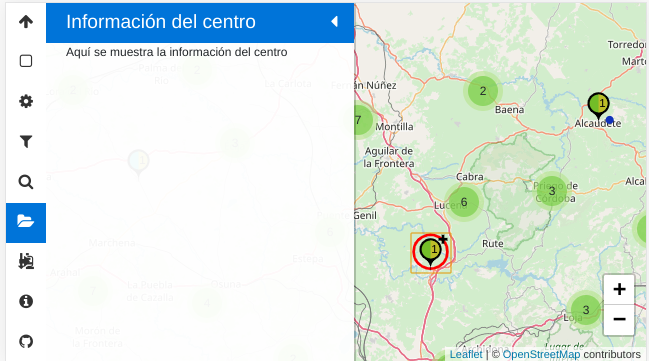
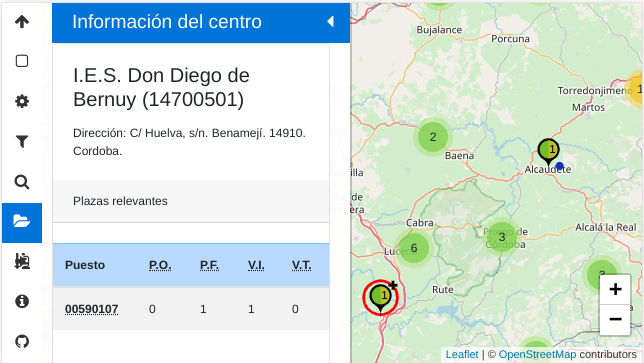
Actualiza la documentación de usuario

diff --git a/docs/html/searchindex.js b/docs/html/searchindex.js
@@ -1,1 +1,1 @@
-Search.setIndex({docnames:["01.intro/index","02.dev/01.map","02.dev/02.adjofer","02.dev/index","index"],envversion:{"sphinx.domains.c":1,"sphinx.domains.changeset":1,"sphinx.domains.cpp":1,"sphinx.domains.javascript":1,"sphinx.domains.math":2,"sphinx.domains.python":1,"sphinx.domains.rst":1,"sphinx.domains.std":1,"sphinx.ext.todo":1,sphinx:55},filenames:["01.intro/index.rst","02.dev/01.map.rst","02.dev/02.adjofer.rst","02.dev/index.rst","index.rst"],objects:{"":{Centro:[2,0,1,""],CorrSys:[1,1,1,""],Correctable:[1,1,1,""],FilterSys:[1,1,1,""],Icon:[1,1,1,""],Marker:[1,1,1,""],agregarCentros:[2,3,1,""],calcularOrigen:[2,3,1,""],cluster:[2,0,1,""],contador:[2,0,1,""],direccion:[2,0,1,""],general:[2,0,1,""],geoCodificar:[2,3,1,""],getIcon:[2,3,1,""],getIsocronas:[2,3,1,""],getStatus:[2,3,1,""],isocronas:[2,0,1,""],mapAdjOfer:[2,2,1,""],origen:[2,0,1,""],ruta:[2,0,1,""],seleccionado:[2,0,1,""],setIcon:[2,3,1,""],setIsocronas:[2,3,1,""],setOrigen:[2,3,1,""],setRuta:[2,3,1,""],setStatus:[2,3,1,""],status:[2,0,1,""]},"L.utils":{Converter:[1,1,1,""],createMutableIconClass:[1,2,1,""],grayFilter:[1,2,1,""],load:[1,2,1,""],noFilteredIconCluster:[1,2,1,""]},"L.utils.Converter":{define:[1,2,1,""],defined:[1,0,1,""],disable:[1,2,1,""],enable:[1,2,1,""],enabled:[1,0,1,""],isDefined:[1,2,1,""],params:[1,0,1,""],run:[1,2,1,""]},Correctable:{CorrValue:[1,2,1,""],total:[1,0,1,""]},Icon:{Options:[1,2,1,""],onready:[1,2,1,""],options:[1,0,1,""],ready:[1,0,1,""]},Marker:{Options:[1,2,1,""],changeData:[1,2,1,""],correct:[1,2,1,""],filter:[1,2,1,""],getCorrectStatus:[1,2,1,""],getData:[1,2,1,""],getFilterStatus:[1,2,1,""],hasFilter:[1,2,1,""],invoke:[1,2,1,""],options:[1,0,1,""],refresh:[1,2,1,""],register:[1,2,1,""],registerF:[1,2,1,""],reset:[1,2,1,""],store:[1,0,1,""],uncorrect:[1,2,1,""],unfilter:[1,2,1,""]}},objnames:{"0":["js","attribute","JavaScript atributo"],"1":["js","class","JavaScript clase"],"2":["js","function","JavaScript funci\u00f3n"],"3":["js","method","JavaScript m\u00e9todo"]},objtypes:{"0":"js:attribute","1":"js:class","2":"js:function","3":"js:method"},terms:{"100px":1,"10px":1,"200px":1,"20px":1,"23gmsmr168":2,"23gsasi820":2,"23gsda859":2,"23gsdam517":2,"2px":1,"3px":1,"4px":1,"76a6fc":1,"7be":1,"7n4qkrdh":[1,2],"9jxkrfclaxxqb":[1,2],"Qu\u00e9":4,"\u00e9sta":1,"\u00e9ste":[0,1],"\u00e9stos":[0,1],"a\u00f1ad":[0,1,2],"a\u00f1o":[0,2],"a\u00f1os":2,"acompa\u00f1":[0,1],"biling\u00fc":[0,1,2],"boolean":1,"class":1,"const":[1,2],"cu\u00e1l":[0,1,2],"cu\u00e1les":[0,1],"default":2,"desempe\u00f1":[0,2],"dise\u00f1":0,"else":1,"ense\u00f1":[0,1,2],"final":1,"for":1,"function":1,"ma\u00f1an":[0,2],"new":[1,2],"null":[1,2],"peque\u00f1":[0,1],"public":0,"return":[1,2],"se\u00f1al":[0,1],"tama\u00f1":1,"this":1,"var":[1,2],Antes:2,Con:1,ESO:0,Esta:0,Estado:4,Estas:2,Este:[0,1,2],Esto:[0,1],Hay:[1,2],Las:[0,1,2],Los:[0,1,2],Muy:0,Por:[0,2],Sin:1,Son:[0,2],Soy:[0,1],Una:[0,1],a4dhdd0dgqyw6rq:[1,2],aahor:2,abder:2,abrir:1,abrirl:0,abro:0,absolut:1,absurd:1,acab:[1,2],acced:[0,1],acces:2,accion:[0,1,2],acept:2,acerc:0,actu:1,actual:[0,1,2],actualiz:[0,1],add:1,adddat:1,addlay:1,addressset:2,addto:1,adecu:1,adel:[0,1],ademas:[0,1,2],adicion:1,adicional:[1,2],adivin:0,adj:[1,2],adjcol:1,adjmin:1,adjof:[1,2],adjofert:2,adjpu:[1,2],adjref:2,adjuc:1,adjud:[0,1,3,4],adjudic:[0,2],adjudicatari:[0,2],administr:2,admit:[1,2],adof:1,adopt:1,adqu:1,adra:2,adscrit:2,adu:2,adult:2,advert:0,afect:1,afin:0,afirm:1,agreg:[1,2],agregarcentr:2,agrup:[0,1,2],ahi:1,ahor:[1,2],ahorr:1,ajax:[1,2],ajen:2,ajust:[1,4],alcanc:0,alegr:1,alej:[0,2],aleman:2,algoritm:1,algun:[0,1,2],align:1,alla:0,alli:0,almacen:[0,1,2],almeri:2,alrededor:0,alter:[1,2],altern:1,alternat:2,ambos:[0,1,2],ampli:1,amrca:1,analog:1,ancho:0,anclaj:1,andaluc:0,anid:1,anill:2,anteior:1,antend:0,anteri:2,anterior:[0,1,2],anul:1,aparec:[0,1,2],aparent:0,apart:1,aperec:0,api:[0,2,3],aplic:[0,2],apliqu:[0,1],aport:2,apoy:2,appendchild:1,appliedcorrections:1,apply:1,apra:0,aprend:0,aprob:2,apropi:[0,1,2],aprovech:1,apto:2,apunt:[1,2],aqu:[0,1],aquell:[0,1,2],aratcliff:2,arbitrari:[0,1],archiv:1,are:[0,2],argument:[1,2],argumento:2,arr:1,arranqu:4,array:[1,2],arrays:1,arrow:1,artes:2,artesanal:1,asegur:0,asegures:1,asi:[1,2],asign:[1,2],asimil:1,asincron:1,asir:1,asoci:[0,1,2],aspect:[0,1,2],ataj:1,atract:1,atrap:1,atrbut:[1,2],atribut:[1,3],attr:[1,2],attrs:1,aum:2,aument:[1,2],aun:2,aunqu:[0,1],aut:1,autochain:1,automat:[0,1,2],autostatus:2,averigu:2,ayud:[1,2],azul:1,bachillerat:[0,1,2],background:1,bae:2,baj:1,bander:1,bap:2,bar:1,barr:0,bas:[0,1,2],base64:2,basic:3,bast:[0,1],bastant:1,bct:2,bhcs:2,bien:[1,2],bil:[1,2],biling:[1,2],bilingu:2,block:1,bold:1,bolich:[1,2],bols:0,bon:0,bool:1,bord:1,boton:[0,2],box:1,brind:[0,1],bug:0,busc:1,busqued:0,cab:[0,1,2],cad:[0,1,2],caden:[1,2],caig:0,cajetin:2,calc:1,calcul:[0,1,2],calcularorig:2,callback:1,calor:2,cambi:[0,1,2],camin:0,candidat:2,cantid:1,cap:[1,2],capac:1,capaz:[1,2],captur:[0,2],caract:0,caractarist:2,caracteris:2,caracterist:[0,1,3],caracteriz:[0,1],carec:0,carg:[0,2],cargoelect:2,carrer:2,cas:[0,1,2],ccrrect:1,cdn:2,cdnjs:2,cectr:1,celebr:0,cent:[1,2],centr:[1,2],centric:0,cercan:1,cerci:0,cercior:0,cerciores:0,cerr:0,cfgm:2,cfgs:2,cgt:[0,2],chain:1,changedat:1,chuckedloading:1,chuckprogress:1,chunkprogress:2,chup:1,chupachups:[1,2],chups:1,ci590107:2,cicl:0,cienci:2,cientif:2,cierr:0,ciert:1,circul:[0,1],circunferent:2,circunst:1,ciud:0,clar:1,clas:[1,2],classnam:1,clav:[1,2],clearlayers:[1,2],click:[0,1,2],client:0,cloudflar:2,clust:[1,2],clusters:1,cod:2,codif:2,codific:2,codig:[1,2],coincid:[0,1],col:2,colect:[0,1,2],coloc:[0,1],color:[0,1],colore:0,com:[0,1,2],comentari:1,comision:2,comp:1,compar:1,compart:0,compat:1,compens:0,compensatari:2,compensatori:[0,1,2],complej:1,complet:1,compong:0,comport:[0,1,2],comprueb:1,compuest:1,comun:[0,1],concept:3,concili:2,concret:[1,2],concurs:[0,2],concursill:1,condicion:0,conect:1,configur:2,conjunt:1,conoc:[0,1,2],conrrect:2,cons:[],consecuent:[0,1,2],conserv:1,consid:1,consig:0,consist:[0,1],consol:[1,2],conson:1,constanci:1,constitu:[1,2],constru:[1,2],construccion:1,constructor:1,consult:[0,1,2,4],contador:[0,2],conten:[0,1],contendr:2,contenedor:1,conteng:1,content:1,context:1,contextmenu:2,contextual:[0,2],contien:[1,2],contigu:2,continu:0,contrari:2,contribu:1,control:2,contru:2,convendr:[1,2],convenient:[0,2],conversion:1,conversor:1,convert:1,coorden:2,coordin:1,coordinat:[1,2],copi:0,corr:[0,1],correccion:[0,3],correccon:1,correct:[1,2],correctamet:0,correg:[0,1,2],correspond:2,correspondient:[0,1],corrient:1,corrig:1,corrsys:1,corrvalu:1,cre:[0,1,2],creacion:[3,4],crearicon:1,crearmarc:1,createelement:1,createmutableiconclass:1,criteri:1,crossorigin:[1,2],css:[1,2],cuad:1,cuales:1,cualqu:[0,1],cualqui:[1,2],cuand:[0,1,2],cuant:[0,1,2],cuarent:0,cuatr:[0,1],cuent:[0,1],cuerp:0,culp:1,culpabl:2,cumpl:1,curs:2,cuy:[0,1,2],dad:1,dam:1,dar:1,dars:1,dat:[0,3],dataload:2,dataset:1,ddd:1,deb:[0,1,2],decision:1,declar:0,decodif:2,dedic:[0,1,2],deep:1,defect:[0,1,2],defin:[0,1,2],definicion:2,definit:0,dej:[0,1],delet:1,dem:[1,2],dentr:[0,1,2],depend:[0,1,2],dependent:2,derech:[0,2],deriv:[1,2],des:1,desabl:2,desagreg:[0,2],desaparec:[0,1,2],desapl:[1,2],desaplic:1,desarroll:[0,1,2,4],descarg:[1,2],descont:1,describ:[1,2],descrit:0,descubr:1,desd:[1,2],dese:[1,2],deseabl:2,desech:1,deseleccion:2,desencaden:[1,2],desgl:1,desgraci:1,deshabilat:0,deshabilit:[0,1],deshac:[0,2],desmarqu:0,despend:2,desplaz:2,despleg:0,destin:[0,1,2],detall:[0,1,2],determin:[1,2],determinads:1,devolv:[1,2],devuelv:[1,2],diari:0,dias:2,dibuj:[0,1,2],dich:2,didact:1,diferent:[0,1],dificil:[0,1,2],dificult:2,dim:1,dinam:2,diner:0,direccion:[0,2],direccion_postal_del_candidat:2,direct:[0,1,2],directori:2,disabl:1,disableclusteringatzoom:1,discut:1,disgreg:1,disp:[1,2],dispar:1,display:1,dispon:[0,1,2],dispong:0,disposit:[0,2],dist:[1,2],distanci:[0,2],distingu:1,distint:[0,1,2],div:1,divers:1,divicon:1,dobl:0,document:[1,2,4],documentfragment:1,dom:2,dond:[1,2],dorm:0,dos:[0,1,2],dra:[1,2],du590107:[1,2],dual:2,duracion:0,durant:[0,1],ebb:1,echel:0,ed590107:2,educ:[0,1,2],efect:[0,1],ejecut:1,ejempl:[0,1,2],eleg:0,element:[1,2],elimianr:0,elimin:[0,1,2],ello:[0,1],embarg:[0,1],empez:0,empotr:2,enabl:1,enc3rrjcxcpavg10icrvgsmph6qw5lwrg:[1,2],encaden:2,encarg:1,encerr:0,encierr:2,encontr:[0,2],encuentr:[0,1,2],ene:2,engorr:1,enmbarg:0,enpract:2,ens:[1,2],entend:2,enter:0,entid:[1,2],entidad:[1,4],entiend:[1,2],enton:1,entonc:[1,2],entrad:1,entrev:0,enumer:[1,2],enunci:1,envi:[0,1],envuelv:1,epigraf:[0,1,2],equivalent:1,error:1,esc:2,escal:1,escalafon:[0,2],escen:2,escenari:1,escog:[0,2],escrib:[1,2],escrit:1,escuentr:1,esp:2,espaci:0,especial:[0,2],especif:[0,1,2],especific:1,especil:0,especul:0,esper:[0,1],esquin:0,establec:[0,1,2],establecimnient:2,establezc:[1,2],estadist:0,estam:1,estan:[0,1],estand:1,esten:[0,1],estil:[0,2],estim:2,etc:[1,2],evalu:2,event:3,evident:0,evit:1,exact:[1,2],exampl:1,excepcional:0,except:[1,2],exclus:[0,1,2],exdirector:2,exig:1,exist:[0,1,2],existent:[1,2],exit:1,expect:1,explic:1,exposicion:1,expres:[1,2],expuest:[1,2],expuls:1,expus:1,ext:2,extend:[1,2],extension:[1,2],extern:0,extiend:1,extincion:2,extingu:2,extra:[1,2],facilit:[1,2],fail:1,failback:1,fall:[0,1],fals:[1,2],famili:0,familiariz:2,faq:4,fast:1,favorit:1,featur:[1,2],featurecollection:[1,2],featuregroup:1,fff:1,fiabil:0,ficher:1,fij:[0,1,2],filt:[1,2],filter:[1,2],filters:1,filtersys:1,filtr:[3,4],fin:[0,1,2],firstelementchild:1,fitl:1,flex:1,fond:1,font:1,forc:1,foreach:1,form:[0,1,2],formacion:[0,2],format:[0,1,2],frances:2,frent:2,fuent:1,fuer:[0,1,2],fuerz:1,fues:1,fullscr:2,fun:2,func:1,funcioanri:2,funcion:[0,1,2],funcionari:[0,2],fundamental:[0,1],fus:2,fusion:1,futur:[0,1,2],fuzzy:2,garantiz:0,gen:0,gener:[0,1,2],general:[1,2],geocod:2,geocodif:2,geocodific:2,geograf:[1,4],geojson:2,geometry:[1,2],get:[1,2],getautocorrect:1,getcorrectstatus:1,getdat:[1,2],getelementby:1,getfilterstatus:1,geticon:2,getisocron:2,getlayers:2,getstatus:2,github:[2,4],googl:0,goz:0,grad:2,grand:1,grayfilt:1,grayscal:1,gris:[0,1],guard:1,hab:[0,1,2],habilit:[0,1,2],habitual:[0,1],habr:[0,2],hac:[0,2],hag:[0,1],har:[0,1],hasfilt:1,hasownproperty:1,hast:[0,1],hech:[0,1,2],height:1,hem:[0,1],herramient:[0,1],hoj:2,hol:1,homonim:2,hor:0,href:[1,2],html:[1,2],htmlelement:1,http:1,https:[1,2],hub:[0,1,2],human:2,icon:[0,2],iconanchor:1,iconcreatefunction:1,iconfunctioncreat:1,iconsiz:1,iconurl:1,ide:1,identif:[1,2],identific:1,idi:2,idiom:[0,2],idiosincrasi:1,idon:0,idx:1,ied:2,igual:[0,1],ilimit:0,ilustr:1,imag:1,imagen:1,impart:2,implant:2,implement:[1,2],implemet:1,implic:[1,2],impon:0,impong:1,impractic:1,imprescind:1,impuest:0,inalter:1,inclu:[0,1,2],inclus:1,inclusion:1,incluyendol:2,incompat:0,incorpor:[0,1],incr:1,incrust:1,independient:1,index:1,indexof:1,indic:[0,1,2],indiqu:1,indirect:1,indispens:1,individual:[0,1],inferior:0,inform:[0,1,2],informat:[0,2],ingles:[0,1,2],inicial:[0,1,2],insercion:1,insert:1,insta:0,institut:0,instruccion:1,integrity:[1,2],intencion:1,intent:[1,2],inter:1,interaccion:1,interact:0,interactu:[0,2],intercom:2,interes:[0,1],interfaz:[1,2],interin:[0,1,2],interm:1,intermedi:1,intermediari:1,intern:2,internamient:1,interpret:1,inters:1,interval:0,introduc:[1,2],inutil:[0,1],inv:[1,2],invad:0,invent:1,inversor:2,invert:[1,2],invok:1,involucr:1,ira:0,iran:0,irlas:1,irrelev:0,isdefin:1,iso20:2,isochron:2,isochroneset:2,isocron:[0,2],isprimitiv:1,item:0,items:1,itinerari:0,javascript:1,jsdelivr:2,json:2,jueg:2,juli:0,just:1,justify:1,key:2,lanz:[1,2],larg:0,lat:[1,2],lateral:0,latin:0,latlng:2,lay:[1,2],layeradd:1,layergroup:1,leafext:[1,2],leaflet:2,lectur:1,left:1,lej:[0,2],lejan:[0,2],length:1,lent:2,lenz:2,let:1,letr:[0,2],libr:[1,2],libs:2,lig:1,light:2,limit:[0,1,2],limites:[1,2],limpi:0,lin:0,line:1,link:[1,2],list:[0,1],llam:1,lleg:[1,2],llev:[0,1,2],lng:[1,2],load:1,loading:2,localiz:[1,2],loes:1,log:[1,2],longitud:1,lueg:2,lug:[0,1],maciz:2,magnitud:1,main:1,malum:0,manej:1,maner:[1,2],manipul:2,mantendr:2,manual:1,map:3,mapadjof:2,mapbox:2,maps:[0,1,2],mar:2,marc:[0,2],margin:1,marism:2,mark:1,markerclust:2,markerclustergroup:1,markerselect:2,marqu:0,mas:[0,1,2],matemat:0,math:1,matutin:2,max:1,maximiz:2,maxzoom:1,mayor:[0,2],mayuscul:0,mecan:1,med:1,medi:0,mediant:[0,1,2],mejor:1,men:[0,1,2],mencion:2,menor:2,menu:[0,2],menus:2,meod:2,mer:0,mes:2,meth:1,method:1,metod:[1,3],microinformat:2,mientr:[0,1],min:[1,2],minim:1,minut:[0,2],mism:[0,1,2],mobil:2,mod:[0,1,2],modal:2,moder:0,modif:[1,2],modific:[0,1],modifiqu:1,modul:2,moment:1,monitor:0,mostr:[0,1,2],motiv:[0,1],movil:0,much:[1,2],muestr:[0,1],multiplataform:2,mun:2,mutabil:1,mutabl:[1,2],nad:[0,2],nam:1,naranj:0,naveg:[0,1],neces:1,necesari:[1,2],necesit:[1,2],negat:2,net:2,newoldval:2,newopts:1,newval:2,ningun:[0,1,2],nivel:[0,1],nmumadj:1,nofilterediconclust:1,nom:2,nombr:[0,1,2],non:1,norg:2,normal:[0,1,2],nosotr:1,not:[0,1,2],notaciion:1,notacion:1,now:1,npm:2,npmcdn:2,nue:2,nuestr:[0,1],nuev:[0,1,2],nul:0,numadj:1,numb:1,numer:[0,1,2],nunc:1,nza:2,obj:1,object:1,objet:[0,1,3],obligatori:1,obra:1,obrand:1,obre:1,observ:1,observes:1,obsolut:1,obstanmt:1,obstant:1,obten:[0,1,2],obtencion:[0,1,2],obtendr:1,obtien:[0,1,2],obtuv:[1,2],obvi:[1,2],ocult:[0,1],ocup:[0,2],ocurr:[0,1],ofens:2,ofert:[0,1,3,4],ofertafp:2,ofertasec:2,off:1,ofrec:2,oldval:2,omit:1,oneachfeatur:1,onready:1,opcion:[0,1,2],openrouteservic:[0,2],openstreetmap:1,oper:[1,2],oportun:0,option:1,options:[1,2],opts:[1,2],orden:[0,1,2],org:[1,2],organ:2,orig:[0,1,2],original:1,originset:2,ors:2,padding:1,pagin:[1,2],panel:0,pantall:0,par:[0,1,2],param:1,paramerr:2,parametr:[1,2],params:1,parcial:[1,2],parec:1,parezc:0,part:[0,1,2],particip:0,particp:[],particul:[1,2],particular:[1,2],partip:0,pas:[0,1,2],pasarsel:2,path:2,paut:1,ped:0,pens:2,per:[0,1,2],perfil:0,permanec:1,permis:0,permit:[0,1,2],personal:1,pertenec:[0,1,2],pertenezc:1,perviv:0,pes:1,pet:2,peticion:[0,1,2],pie:[0,1,2],pill:0,pinch:[0,2],pist:0,pla:2,plan:[0,2],plant:1,plantill:[1,2],plasmacion:1,plastic:2,plaz:[0,2],plugin:2,plugins:[1,2],png:1,poc:1,pod:[0,1],podr:[0,1,2],podran:1,podri:1,point:[1,2],pointtolay:1,pon:[0,1],popup:2,porqu:[0,1,2],portapapel:0,posibil:0,posibilit:[1,2],posibl:[0,1,2],posicion:0,posit:2,position:1,pospon:1,post:1,postal:[0,2],posteri:2,posterior:1,postul:0,practic:[0,1,2],precis:1,predefin:2,predetermin:2,predomin:0,preexistent:1,prefer:0,preferent:[1,2],prelacion:[0,2],pres:2,prescind:[0,2],presencial:2,present:[0,1,2],presupondr:2,pretend:[1,2],previ:[0,2,3],prim:[0,1,2],primer:[0,1,2],primit:1,principal:0,principi:[0,1,2],priorid:[0,2],pro:[0,2],prob:0,probabl:[0,1],proced:[0,2],proces:1,procur:0,produc:2,produjeron:0,profesional:[0,2],profesor:0,program:[0,1,2],progres:2,progress:1,progressb:1,pronunci:0,properti:[1,2],propi:[0,1,2],propied:[1,2],propiedad:1,proporcion:[1,2],proposit:1,prove:1,provisional:2,provoc:[1,2],proxim:[0,1],pubpdr0798ozvttbp4a8ix:[1,2],pud:[0,2],pue:[1,2],pued:[0,1,2],pueespec:2,pues:2,puest:[0,1,2],puls:[0,1],pulsacion:0,punt:[0,1,2],puntualiz:1,qued:[0,1,2],quer:1,query:2,queryselector:1,quier:[0,1,2],quis:1,quizas:1,qvftwzfqvtrni0zyctsznlkswostndoroefr1enyq5mvl4tmkb3s:[1,2],qye:1,radius:1,rap:0,raton:2,razon:[0,1],ready:1,real:1,realid:[1,2],realiz:[1,2],recalcul:1,rechaz:0,recib:[1,2],recog:[0,2],reconoc:1,record:0,recorr:1,recr:1,recuerd:[0,2],recuper:0,recurr:[1,2],red:2,redefin:1,redibuj:[1,2],ref:[],refer:[1,2],referent:[0,2],refier:0,reflej:[0,1],refresc:1,refresh:1,refresqu:1,regist:1,registerf:1,registr:1,regl:1,reingres:2,rel:[1,2],relacioand:0,relacion:1,relat:2,relativ:1,relev:[0,1,2],rellen:0,remocion:[0,1,2],remot:2,removeproperty:1,rendimient:1,rentabil:0,repetid:1,replieg:0,repositori:4,represent:[0,1,2],reproduc:[0,1],requier:[1,2],requisit:[1,3],reset:[1,2],resolu:0,resolv:[1,2],respect:[0,1,2],respond:[0,2],respuest:1,rest:[0,1,2],restant:2,restitu:2,restriccion:0,restrict:1,restring:0,result:[0,1,2],resum:1,retorn:2,revel:1,revert:1,revis:2,rgba:1,riesg:0,rod:[0,2],roj:[0,2],round:1,routeset:2,run:1,rut:[0,2],rutapopup:2,sab:[0,1],sal:0,saludpropi:2,salv:0,salved:1,script:[1,2],scripts:[1,2],search:2,seccion:0,secundari:[0,2],segu:1,seguir:2,segun:[1,2],segund:[0,1,2],seleccion:[2,4],seleccionad:[],semej:0,semi:2,semipresencial:2,sencill:[1,2],sent:[0,1,2],septiembr:[0,2],ser:[1,2],seran:1,seri:[1,2],serv:1,servici:[0,2],servidor:[],sesion:0,setfilt:[],setfilterstyl:1,seticon:2,setisocron:2,setorig:2,setrut:2,setstatus:2,setstyl:1,setview:1,sevill:0,sha512:[1,2],shift:0,showcoverageonhov:1,sid:[1,2],siembr:2,siempr:[0,2],siend:2,sig:[1,2],signif:[0,1,2],signific:[0,1,2],siguient:[0,1,2],simetr:1,simpl:1,simplement:[0,1],simplific:1,sino:[0,1],sintaxis:1,sirv:1,sistem:[1,2],situ:2,situacion:1,sizing:1,sjawzfwakuyequyto7:[1,2],smr:1,sobr:[0,1,2],sobreentiend:[1,2],sobreescrib:[1,2],sobremes:0,social:2,sol:[0,1,2],solicitud:2,solucion:1,som:0,soport:[1,2],sp590107:2,span:1,spid:2,spiderfyonmaxzoom:1,src:[1,2],start:1,status:2,statuschang:2,step:1,stor:[1,2],string:1,style:1,styles:1,stylesheet:[1,2],subsan:0,success:1,suert:[],sufr:1,sum:[1,2],suministr:[1,2],sumunistr:2,superfici:0,superior:0,superpuest:0,supervivient:0,supon:[1,2],supong:1,suprim:[1,2],supuest:[0,1],supus:1,suscept:1,susodich:1,suspend:1,sustanci:0,sut:1,svg:[1,2],tach:0,tactil:0,tal:[0,1,2],tambien:[0,1,2],tampoc:1,tant:[0,1,2],tar:1,tard:[0,2],tare:1,target:1,taxat:0,tecl:0,tecnic:0,tecnolog:2,tedios:2,telefon:[0,1,2],templat:1,ten:[0,1,2],tendr:[1,2],teng:[0,1,2],terc:[1,2],tercer:[0,1],termin:2,textcontent:1,tiemp:[0,1,2],tien:[0,1,2],til:1,tilelay:1,tin:1,tip:[0,1,2],tipic:1,tipp:2,tiron:1,titl:1,tod:[0,1,2],tom:[0,1],tont:0,top:1,torn:1,total:1,tra:1,trabaj:0,traduc:1,transform:1,tras:2,trasl:[1,2],traslad:1,trat:[0,1],tratamient:1,traves:[0,1,2],tres:[1,2],trivial:0,troz:1,tru:[1,2],tur:2,turf:2,turn:[0,2],type:[1,2],ubi:2,ubic:[0,2],ultim:[0,1,2],unas:[0,1,2],unclusterzoom:2,uncorrect:[1,2],undefin:1,unfilt:[1,2],unfilter:[1,2],unic:[0,1,2],unpkg:[1,2],updat:1,url:[0,1,2],usa:[1,2],usad:1,usam:1,usan:[0,1],usand:[0,1,2],usar:[0,1,2],usarl:2,usars:[1,2],use:1,usem:1,uso:[2,3,4],usuari:[0,1,2],util:[0,2],utilic:0,utiliz:[1,2],utils:1,vac:1,vacant:[0,1,2],vaci:[0,1],val:1,valor:[0,1,2],valu:1,van:1,vari:1,variabl:[1,2],variacion:[1,2],variant:3,vay:1,vea:1,veas:[0,1,2],vec:1,vem:1,ven:1,ventaj:1,ver:[0,1],veran:0,vers:0,version:[1,2],vertical:0,vespertin:2,vez:[0,1,2],viaj:[0,2],violace:0,virtual:2,visit:0,vist:[0,1],vistaz:0,visual:[0,1,2],volunt:1,volv:[0,1,2],vuejs:1,vuelv:1,web:2,weight:1,width:1,xhr:1,xml:1,xmlhttprequest:1,xxxxx:2,zoom:[0,1,2]},titles:["1. \u00bfQu\u00e9 es Lobat\u00f3n?","3.1. Creaci\u00f3n de mapas","3.2. Mapa de oferta y adjudicaciones","3. Documentaci\u00f3n de desarrollo","Lobat\u00f3n: mapa de centros educativos andaluces"],titleterms:{"Qu\u00e9":0,Estado:0,Otras:1,Por:1,acces:1,adjud:2,ajust:0,andaluc:4,api:1,aplic:1,arranqu:0,atribut:2,barr:1,basic:1,caracterist:2,carg:1,centr:[0,4],comprob:1,concept:1,correccion:[1,2],creacion:[1,2],dat:[1,2],definicion:1,desarroll:3,document:3,dond:4,educ:4,encaden:1,entidad:0,estil:1,event:[1,2],faq:0,filtr:[0,1,2],geograf:0,geojson:1,hac:1,icon:1,indic:[],ingredient:1,leaflet:1,lobaton:[0,4],map:[0,1,2,4],marc:1,markerclust:1,metod:2,objet:2,ofert:2,preliminar:1,previ:1,progres:1,requer:1,requisit:2,reversion:1,seleccion:0,tabl:[],uso:[0,1],util:1,variant:1}})
+Search.setIndex({docnames:["01.intro/index","02.dev/01.map","02.dev/02.adjofer","02.dev/index","index"],envversion:{"sphinx.domains.c":1,"sphinx.domains.changeset":1,"sphinx.domains.cpp":1,"sphinx.domains.javascript":1,"sphinx.domains.math":2,"sphinx.domains.python":1,"sphinx.domains.rst":1,"sphinx.domains.std":1,"sphinx.ext.todo":1,sphinx:55},filenames:["01.intro/index.rst","02.dev/01.map.rst","02.dev/02.adjofer.rst","02.dev/index.rst","index.rst"],objects:{"":{Centro:[2,0,1,""],CorrSys:[1,1,1,""],Correctable:[1,1,1,""],FilterSys:[1,1,1,""],Icon:[1,1,1,""],Marker:[1,1,1,""],agregarCentros:[2,3,1,""],calcularOrigen:[2,3,1,""],cluster:[2,0,1,""],contador:[2,0,1,""],direccion:[2,0,1,""],general:[2,0,1,""],geoCodificar:[2,3,1,""],getIcon:[2,3,1,""],getIsocronas:[2,3,1,""],getStatus:[2,3,1,""],isocronas:[2,0,1,""],mapAdjOfer:[2,2,1,""],origen:[2,0,1,""],ruta:[2,0,1,""],seleccionado:[2,0,1,""],setIcon:[2,3,1,""],setIsocronas:[2,3,1,""],setOrigen:[2,3,1,""],setRuta:[2,3,1,""],setStatus:[2,3,1,""],status:[2,0,1,""]},"L.utils":{Converter:[1,1,1,""],createMutableIconClass:[1,2,1,""],grayFilter:[1,2,1,""],load:[1,2,1,""],noFilteredIconCluster:[1,2,1,""]},"L.utils.Converter":{define:[1,2,1,""],defined:[1,0,1,""],disable:[1,2,1,""],enable:[1,2,1,""],enabled:[1,0,1,""],isDefined:[1,2,1,""],params:[1,0,1,""],run:[1,2,1,""]},Correctable:{CorrValue:[1,2,1,""],total:[1,0,1,""]},Icon:{Options:[1,2,1,""],onready:[1,2,1,""],options:[1,0,1,""],ready:[1,0,1,""]},Marker:{Options:[1,2,1,""],changeData:[1,2,1,""],correct:[1,2,1,""],filter:[1,2,1,""],getCorrectStatus:[1,2,1,""],getData:[1,2,1,""],getFilterStatus:[1,2,1,""],hasFilter:[1,2,1,""],invoke:[1,2,1,""],options:[1,0,1,""],refresh:[1,2,1,""],register:[1,2,1,""],registerF:[1,2,1,""],reset:[1,2,1,""],store:[1,0,1,""],uncorrect:[1,2,1,""],unfilter:[1,2,1,""]}},objnames:{"0":["js","attribute","JavaScript atributo"],"1":["js","class","JavaScript clase"],"2":["js","function","JavaScript funci\u00f3n"],"3":["js","method","JavaScript m\u00e9todo"]},objtypes:{"0":"js:attribute","1":"js:class","2":"js:function","3":"js:method"},terms:{"100px":1,"10px":1,"200px":1,"20px":1,"23gmsmr168":2,"23gsasi820":2,"23gsda859":2,"23gsdam517":2,"2px":1,"3px":1,"4px":1,"76a6fc":1,"7be":1,"7n4qkrdh":[1,2],"9jxkrfclaxxqb":[1,2],"Qu\u00e9":4,"\u00e9sta":1,"\u00e9ste":[0,1],"\u00e9stos":[0,1],"a\u00f1ad":[0,1,2],"a\u00f1o":[0,2],"a\u00f1os":2,"acompa\u00f1":[0,1],"biling\u00fc":[0,1,2],"boolean":1,"class":1,"const":[1,2],"cu\u00e1l":[0,1,2],"cu\u00e1les":[0,1],"default":2,"desempe\u00f1":[0,2],"dise\u00f1":0,"else":1,"ense\u00f1":[0,1,2],"final":1,"for":1,"function":1,"ma\u00f1an":[0,2],"new":[1,2],"null":[1,2],"peque\u00f1":[0,1],"public":0,"return":[1,2],"se\u00f1al":[0,1],"tama\u00f1":1,"this":1,"var":[1,2],Antes:2,Con:1,ESO:0,Esta:0,Estado:4,Estas:2,Este:[0,1,2],Esto:[0,1],Hay:[1,2],Las:[0,1,2],Los:[0,1,2],Muy:0,Por:[0,2],Sin:1,Son:[0,2],Soy:[0,1],Una:[0,1],a4dhdd0dgqyw6rq:[1,2],aahor:2,abder:2,abrir:1,abrirl:0,abro:0,absolut:1,absurd:1,acab:[1,2],acced:[0,1],acces:2,accion:[0,1,2],acept:2,acerc:0,actu:1,actual:[0,1,2],actualiz:[0,1],add:1,adddat:1,addlay:1,addressset:2,addto:1,adecu:1,adel:[0,1],ademas:[0,1,2],adicion:1,adicional:[1,2],adivin:0,adj:[1,2],adjcol:1,adjmin:1,adjof:[1,2],adjofert:2,adjpu:[1,2],adjref:2,adjuc:1,adjud:[0,1,3,4],adjudic:[0,2],adjudicatari:[0,2],administr:2,admit:[1,2],adof:1,adopt:1,adqu:1,adra:2,adscrit:2,adu:2,adult:2,advert:0,afect:1,afin:0,afirm:1,agreg:[1,2],agregarcentr:2,agrup:[0,1,2],ahi:1,ahor:[1,2],ahorr:1,ajax:[1,2],ajen:2,ajust:[1,4],alcanc:0,alegr:1,alej:[0,2],aleman:2,algoritm:1,algun:[0,1,2],align:1,alla:0,alli:0,almacen:[0,1,2],almeri:2,alrededor:0,alter:[1,2],altern:1,alternat:2,ambos:[0,1,2],ampli:1,amrca:1,analog:1,ancho:0,anclaj:1,andaluc:0,anid:1,anill:2,anteior:1,antend:0,anteri:2,anterior:[0,1,2],anul:1,aparec:[0,1,2],aparent:0,apart:1,aperec:0,api:[0,2,3],aplic:[0,2],apliqu:[0,1],aport:2,apoy:2,appendchild:1,appliedcorrections:1,apply:1,apra:0,aprend:0,aprob:2,apropi:[0,1,2],aprovech:1,apto:2,apunt:[1,2],aqu:[0,1],aquell:[0,1,2],aratcliff:2,arbitrari:[0,1],archiv:1,are:[0,2],argument:[1,2],argumento:2,arr:1,arranqu:4,array:[1,2],arrays:1,arrow:1,artes:2,artesanal:1,asegur:0,asegures:1,asi:[1,2],asign:[1,2],asimil:1,asincron:1,asir:1,asoci:[0,1,2],aspect:[0,1,2],ataj:1,atract:1,atrap:1,atrbut:[1,2],atribut:[1,3],attr:[1,2],attrs:1,aum:2,aument:[1,2],aun:2,aunqu:[0,1],aut:1,autochain:1,automat:[0,1,2],autostatus:2,averigu:2,ayud:[1,2],azul:1,bachillerat:[0,1,2],background:1,bae:2,baj:1,bander:1,bap:2,bar:1,barr:0,bas:[0,1,2],base64:2,basic:3,bast:[0,1],bastant:1,bct:2,bhcs:2,bien:[1,2],bil:[1,2],biling:[1,2],bilingu:2,block:1,bold:1,bolich:[1,2],bols:0,bon:0,bool:1,bord:1,boton:[0,2],box:1,brind:[0,1],bug:0,busc:1,busqued:0,cab:[0,1,2],cad:[0,1,2],caden:[1,2],caig:0,cajetin:2,calc:1,calcul:[0,1,2],calcularorig:2,callback:1,calor:2,cambi:[0,1,2],camin:0,candidat:2,cantid:1,cap:[1,2],capac:1,capaz:[1,2],captur:[0,2],caract:0,caractarist:2,caracteris:2,caracterist:[0,1,3],caracteriz:[0,1],carec:0,carg:[0,2],cargoelect:2,carrer:2,cas:[0,1,2],ccrrect:1,cdn:2,cdnjs:2,cectr:1,celebr:0,cent:[1,2],centr:[1,2],centric:0,cercan:1,cerci:0,cercior:0,cerciores:0,cerr:0,cfgm:2,cfgs:2,cgt:[0,2],chain:1,changedat:1,chuckedloading:1,chuckprogress:1,chunkprogress:2,chup:1,chupachups:[1,2],chups:1,ci590107:2,cicl:0,cienci:2,cientif:2,cierr:0,ciert:1,circul:[0,1],circunferent:2,circunst:1,ciud:0,clar:1,clas:[1,2],classnam:1,clav:[1,2],clearlayers:[1,2],click:[0,1,2],client:0,cloudflar:2,clust:[1,2],clusters:1,cod:2,codif:2,codific:2,codig:[1,2],coincid:[0,1],col:2,colect:[0,1,2],coloc:[0,1],color:[0,1],colore:0,com:[0,1,2],comentari:1,comision:2,comp:1,compar:1,compart:0,compat:1,compens:0,compensatari:2,compensatori:[0,1,2],complej:1,complet:1,compong:0,comport:[0,1,2],comprueb:1,compuest:1,comun:[0,1],concept:3,concili:2,concret:[1,2],concurs:[0,2],concursill:1,condicion:0,conect:1,configur:2,conjunt:1,conoc:[0,1,2],conrrect:2,cons:[],consecuent:[0,1,2],conserv:1,consid:1,consig:0,consist:[0,1],consol:[1,2],conson:1,constanci:1,constitu:[1,2],constru:[1,2],construccion:1,constructor:1,consult:[0,1,2,4],contador:[0,2],conten:[0,1],contendr:2,contenedor:1,conteng:1,content:1,context:1,contextmenu:2,contextual:[0,2],contien:[1,2],contigu:2,continu:0,contrari:2,contribu:1,control:2,contru:2,convendr:[1,2],convenient:[0,2],conversion:1,conversor:1,convert:1,coorden:2,coordin:1,coordinat:[1,2],copi:0,corr:[0,1],correccion:[0,3],correccon:1,correct:[1,2],correctamet:0,correg:[0,1,2],correspond:2,correspondient:[0,1],corrient:1,corrig:1,corrsys:1,corrvalu:1,cre:[0,1,2],creacion:[3,4],crearicon:1,crearmarc:1,createelement:1,createmutableiconclass:1,criteri:1,crossorigin:[1,2],css:[1,2],cuad:1,cuales:1,cualqu:[0,1],cualqui:[1,2],cuand:[0,1,2],cuant:[0,1,2],cuarent:0,cuatr:[0,1],cuent:[0,1],cuerp:0,culp:1,culpabl:2,cumpl:1,curs:2,cuy:[0,1,2],dad:1,dam:1,dar:1,dars:1,dat:[0,3],dataload:2,dataset:1,ddd:1,deb:[0,1,2],decision:1,declar:0,decodif:2,dedic:[0,1,2],deep:1,defect:[0,1,2],defin:[0,1,2],definicion:2,definit:0,dej:[0,1],delet:1,dem:[1,2],dentr:[0,1,2],depend:[0,1,2],dependent:2,derech:[0,2],deriv:[1,2],des:1,desabl:2,desagreg:[0,2],desaparec:[0,1,2],desapl:[1,2],desaplic:1,desarroll:[0,1,2,4],descarg:[1,2],descont:1,describ:[1,2],descrit:0,descubr:1,desd:[1,2],dese:[1,2],deseabl:2,desech:1,deseleccion:[0,2],desencaden:[1,2],desgl:1,desgraci:1,deshabilat:0,deshabilit:[0,1],deshac:[0,2],desmarqu:0,despend:2,desplaz:2,despleg:0,destin:[0,1,2],detall:[0,1,2],determin:[1,2],determinads:1,devolv:[1,2],devuelv:[1,2],diari:0,dias:2,dibuj:[0,1,2],dich:2,didact:1,diferent:[0,1],dificil:[0,1,2],dificult:2,dim:1,dinam:2,diner:0,direccion:[0,2],direccion_postal_del_candidat:2,direct:[0,1,2],directori:2,disabl:1,disableclusteringatzoom:1,discut:1,disgreg:1,disp:[1,2],dispar:1,display:1,dispon:[0,1,2],dispong:0,disposit:[0,2],dist:[1,2],distanci:[0,2],distingu:1,distint:[0,1,2],div:1,divers:1,divicon:1,dobl:0,document:[1,2,4],documentfragment:1,dom:2,dond:[1,2],dorm:0,dos:[0,1,2],dra:[1,2],du590107:[1,2],dual:2,duracion:0,durant:[0,1],ebb:1,echel:0,ed590107:2,educ:[0,1,2],efect:[0,1],ejecut:1,ejempl:[0,1,2],eleg:0,element:[1,2],elimianr:0,elimin:[0,1,2],ello:[0,1],embarg:[0,1],empez:0,empotr:2,enabl:1,enc3rrjcxcpavg10icrvgsmph6qw5lwrg:[1,2],encaden:2,encarg:1,encerr:0,encierr:2,encontr:[0,2],encuentr:[0,1,2],ene:2,engorr:1,enmbarg:0,enpract:2,ens:[1,2],entend:2,enter:0,entid:[1,2],entidad:[1,4],entiend:[1,2],enton:1,entonc:[1,2],entrad:1,entrev:0,enumer:[1,2],enunci:1,envi:[0,1],envuelv:1,epigraf:[0,1,2],equivalent:1,error:1,esc:2,escal:1,escalafon:[0,2],escen:2,escenari:1,escog:[0,2],escrib:[1,2],escrit:1,escuentr:1,esp:2,espaci:0,especial:[0,2],especif:[0,1,2],especific:1,especil:0,especul:0,esper:[0,1],esquin:0,establec:[0,1,2],establecimnient:2,establezc:[1,2],estadist:0,estam:1,estan:[0,1],estand:1,esten:[0,1],estil:[0,2],estim:2,etc:[1,2],evalu:2,event:3,evident:0,evit:1,exact:[1,2],exampl:1,excepcional:0,except:[1,2],exclus:[0,1,2],exdirector:2,exig:1,exist:[0,1,2],existent:[1,2],exit:1,expect:1,explic:1,exposicion:1,expres:[1,2],expuest:[1,2],expuls:1,expus:1,ext:2,extend:[1,2],extension:[1,2],extern:0,extiend:1,extincion:2,extingu:2,extra:[1,2],facilit:[1,2],fail:1,failback:1,fall:[0,1],fals:[1,2],famili:0,familiariz:2,faq:4,fast:1,favorit:1,featur:[1,2],featurecollection:[1,2],featuregroup:1,fff:1,fiabil:0,ficher:1,fij:[0,1,2],filt:[1,2],filter:[1,2],filters:1,filtersys:1,filtr:[3,4],fin:[0,1,2],firstelementchild:1,fitl:1,flex:1,fond:1,font:1,forc:1,foreach:1,form:[0,1,2],formacion:[0,2],format:[0,1,2],frances:2,frent:2,fuent:1,fuer:[0,1,2],fuerz:1,fues:1,fullscr:2,fun:2,func:1,funcioanri:2,funcion:[0,1,2],funcionari:[0,2],fundamental:[0,1],fus:2,fusion:1,futur:[0,1,2],fuzzy:2,garantiz:0,gen:0,gener:[0,1,2],general:[1,2],geocod:2,geocodif:2,geocodific:2,geograf:[1,4],geojson:2,geometry:[1,2],get:[1,2],getautocorrect:1,getcorrectstatus:1,getdat:[1,2],getelementby:1,getfilterstatus:1,geticon:2,getisocron:2,getlayers:2,getstatus:2,github:[2,4],googl:0,goz:0,grad:2,grand:1,grayfilt:1,grayscal:1,gris:[0,1],guard:1,hab:[0,1,2],habilit:[0,1,2],habitual:[0,1],habr:[0,2],hac:[0,2],hag:[0,1],har:[0,1],hasfilt:1,hasownproperty:1,hast:[0,1],hech:[0,1,2],height:1,hem:[0,1],herramient:[0,1],hoj:2,hol:1,homonim:2,hor:0,href:[1,2],html:[1,2],htmlelement:1,http:1,https:[1,2],hub:[0,1,2],human:2,icon:[0,2],iconanchor:1,iconcreatefunction:1,iconfunctioncreat:1,iconsiz:1,iconurl:1,ide:1,identif:[1,2],identific:1,idi:2,idiom:[0,2],idiosincrasi:1,idon:0,idx:1,ied:2,igual:[0,1],ilimit:0,ilustr:1,imag:1,imagen:1,impart:2,implant:2,implement:[1,2],implemet:1,implic:[1,2],impon:0,impong:1,impractic:1,imprescind:1,impuest:0,inalter:1,inclu:[0,1,2],inclus:1,inclusion:1,incluyendol:2,incompat:0,incorpor:[0,1],incr:1,incrust:1,independient:1,index:1,indexof:1,indic:[0,1,2],indiqu:1,indirect:1,indispens:1,individual:[0,1],inferior:0,inform:[0,1,2],informat:[0,2],ingles:[0,1,2],inicial:[0,1,2],insercion:1,insert:1,insta:0,institut:0,instruccion:1,integrity:[1,2],intencion:1,intent:[1,2],inter:1,interaccion:1,interact:0,interactu:[0,2],intercom:2,interes:[0,1],interfaz:[1,2],interin:[0,1,2],interm:1,intermedi:1,intermediari:1,intern:2,internamient:1,interpret:1,inters:1,interval:0,introduc:[1,2],inutil:[0,1],inv:[1,2],invad:0,invent:1,inversor:2,invert:[1,2],invok:1,involucr:1,ira:0,iran:0,irlas:1,irrelev:0,isdefin:1,iso20:2,isochron:2,isochroneset:2,isocron:[0,2],isprimitiv:1,item:0,items:1,itinerari:0,javascript:1,jsdelivr:2,json:2,jueg:2,juli:0,just:1,justify:1,key:2,lanz:[1,2],larg:0,lat:[1,2],lateral:0,latin:0,latlng:2,lay:[1,2],layeradd:1,layergroup:1,leafext:[1,2],leaflet:2,lectur:1,left:1,lej:[0,2],lejan:[0,2],length:1,lent:2,lenz:2,let:1,letr:[0,2],libr:[1,2],libs:2,lig:1,light:2,limit:[0,1,2],limites:[1,2],limpi:0,lin:0,line:1,link:[1,2],list:[0,1],llam:1,lleg:[1,2],llev:[0,1,2],lng:[1,2],load:1,loading:2,localiz:[1,2],loes:1,log:[1,2],longitud:1,lueg:2,lug:[0,1],maciz:2,magnitud:1,main:1,malum:0,manej:1,maner:[1,2],manipul:2,mantendr:2,manual:1,map:3,mapadjof:2,mapbox:2,maps:[0,1,2],mar:2,marc:[0,2],margin:1,marism:2,mark:1,markerclust:2,markerclustergroup:1,markerselect:2,marqu:0,mas:[0,1,2],matemat:0,math:1,matutin:2,max:1,maximiz:2,maxzoom:1,mayor:[0,2],mayuscul:0,mecan:1,med:1,medi:0,mediant:[0,1,2],mejor:1,men:[0,1,2],mencion:2,menor:2,menu:[0,2],menus:2,meod:2,mer:0,mes:2,meth:1,method:1,metod:[1,3],microinformat:2,mientr:[0,1],min:[1,2],minim:1,minut:[0,2],mism:[0,1,2],mobil:2,mod:[0,1,2],modal:2,moder:0,modif:[1,2],modific:[0,1],modifiqu:1,modul:2,moment:1,monitor:0,mostr:[0,1,2],motiv:[0,1],movil:0,much:[1,2],muestr:[0,1],multiplataform:2,mun:2,mutabil:1,mutabl:[1,2],nad:[0,2],nam:1,naranj:0,naveg:[0,1],neces:1,necesari:[1,2],necesit:[1,2],negat:2,net:2,newoldval:2,newopts:1,newval:2,ningun:[0,1,2],nivel:[0,1],nmumadj:1,nofilterediconclust:1,nom:2,nombr:[0,1,2],non:1,norg:2,normal:[0,1,2],nosotr:1,not:[0,1,2],notaciion:1,notacion:1,now:1,npm:2,npmcdn:2,nue:2,nuestr:[0,1],nuev:[0,1,2],nul:0,numadj:1,numb:1,numer:[0,1,2],nunc:1,nza:2,obj:1,object:1,objet:[0,1,3],obligatori:1,obra:1,obrand:1,obre:1,observ:1,observes:1,obsolut:1,obstanmt:1,obstant:[0,1],obten:[0,1,2],obtencion:[0,1,2],obtendr:1,obtien:[0,1,2],obtuv:[1,2],obvi:[1,2],ocult:[0,1],ocup:[0,2],ocurr:[0,1],ofens:2,ofert:[0,1,3,4],ofertafp:2,ofertasec:2,off:1,ofrec:2,oldval:2,omit:1,oneachfeatur:1,onready:1,opcion:[0,1,2],openrouteservic:[0,2],openstreetmap:1,oper:[1,2],oportun:0,option:1,options:[1,2],opts:[1,2],orden:[0,1,2],org:[1,2],organ:2,orig:[0,1,2],original:1,originset:2,ors:2,padding:1,pagin:[1,2],panel:0,pantall:0,par:[0,1,2],param:1,paramerr:2,parametr:[1,2],params:1,parcial:[1,2],parec:1,parezc:0,part:[0,1,2],particip:0,particp:[],particul:[1,2],particular:[1,2],partip:0,pas:[0,1,2],pasarsel:2,path:2,paut:1,ped:0,pens:2,per:[0,1,2],perfil:0,permanec:1,permis:0,permit:[0,1,2],personal:1,pertenec:[0,1,2],pertenezc:1,perviv:0,pes:1,pet:2,peticion:[0,1,2],pie:[0,1,2],pill:0,pinch:[0,2],pist:0,pla:2,plan:[0,2],plant:1,plantill:[0,1,2],plasmacion:1,plastic:2,plaz:[0,2],plugin:2,plugins:[1,2],png:1,poc:1,pod:[0,1],podr:[0,1,2],podran:1,podri:1,point:[1,2],pointtolay:1,pon:[0,1],popup:2,porqu:[0,1,2],portapapel:0,posibil:0,posibilit:[1,2],posibl:[0,1,2],posicion:0,posit:2,position:1,pospon:1,post:1,postal:[0,2],posteri:2,posterior:1,postul:0,practic:[0,1,2],precis:1,predefin:2,predetermin:2,predomin:0,preexistent:1,prefer:0,preferent:[1,2],prelacion:[0,2],pres:2,prescind:[0,2],presencial:2,present:[0,1,2],presupondr:2,pretend:[1,2],previ:[0,2,3],prim:[0,1,2],primer:[0,1,2],primit:1,principal:0,principi:[0,1,2],priorid:[0,2],pro:[0,2],prob:0,probabl:[0,1],proced:[0,2],proces:1,procur:0,produc:2,produjeron:0,profesional:[0,2],profesor:0,program:[0,1,2],progres:2,progress:1,progressb:1,pronunci:0,properti:[1,2],propi:[0,1,2],propied:[1,2],propiedad:1,proporcion:[1,2],proposit:1,prove:1,provisional:2,provoc:[1,2],proxim:[0,1],pubpdr0798ozvttbp4a8ix:[1,2],pud:[0,2],pue:[1,2],pued:[0,1,2],pueespec:2,pues:2,puest:[0,1,2],puls:[0,1],pulsacion:0,punt:[0,1,2],puntualiz:1,qued:[0,1,2],quer:1,query:2,queryselector:1,quier:[0,1,2],quis:1,quizas:1,qvftwzfqvtrni0zyctsznlkswostndoroefr1enyq5mvl4tmkb3s:[1,2],qye:1,radius:1,rap:0,raton:2,razon:[0,1],ready:1,real:1,realid:[1,2],realiz:[1,2],recalcul:1,rechaz:0,recib:[1,2],recog:[0,2],reconoc:1,record:0,recorr:1,recr:1,recuerd:[0,2],recuper:0,recurr:[1,2],red:2,redefin:1,redibuj:[1,2],ref:[],refer:[1,2],referent:[0,2],refier:0,reflej:[0,1],refresc:1,refresh:1,refresqu:1,regist:1,registerf:1,registr:1,regl:1,reingres:2,rel:[1,2],relacioand:0,relacion:[0,1],relat:2,relativ:1,relev:[0,1,2],rellen:0,remocion:[0,1,2],remot:2,removeproperty:1,rendimient:1,rentabil:0,repetid:1,replieg:0,repositori:4,represent:[0,1,2],reproduc:[0,1],requier:[1,2],requisit:[1,3],reset:[1,2],resolu:0,resolv:[1,2],respect:[0,1,2],respond:[0,2],respuest:1,rest:[0,1,2],restant:2,restitu:2,restriccion:0,restrict:1,restring:0,result:[0,1,2],resum:1,retorn:2,revel:1,revert:1,revis:2,rgba:1,riesg:0,rod:[0,2],roj:[0,2],round:1,routeset:2,run:1,rut:[0,2],rutapopup:2,sab:[0,1],sal:0,saludpropi:2,salv:0,salved:1,script:[1,2],scripts:[1,2],search:2,seccion:0,secundari:[0,2],segu:1,seguir:2,segun:[1,2],segund:[0,1,2],seleccion:[2,4],seleccionad:[],semej:0,semi:2,semipresencial:2,sencill:[1,2],sent:[0,1,2],septiembr:[0,2],ser:[1,2],seran:1,seri:[1,2],serv:1,servici:[0,2],servidor:[],sesion:0,setfilt:[],setfilterstyl:1,seticon:2,setisocron:2,setorig:2,setrut:2,setstatus:2,setstyl:1,setview:1,sevill:0,sha512:[1,2],shift:0,showcoverageonhov:1,sid:[1,2],siembr:2,siempr:[0,2],siend:2,sig:[1,2],signif:[0,1,2],signific:[0,1,2],siguient:[0,1,2],simetr:1,simpl:1,simplement:[0,1],simplific:1,sino:[0,1],sintaxis:1,sirv:1,sistem:[1,2],situ:2,situacion:1,sizing:1,sjawzfwakuyequyto7:[1,2],smr:1,sobr:[0,1,2],sobreentiend:[1,2],sobreescrib:[1,2],sobremes:0,social:2,sol:[0,1,2],solicitud:2,solucion:1,som:0,soport:[1,2],sp590107:2,span:1,spid:2,spiderfyonmaxzoom:1,src:[1,2],start:1,status:2,statuschang:2,step:1,stor:[1,2],string:1,style:1,styles:1,stylesheet:[1,2],subsan:0,success:1,suert:[],sufr:1,sum:[1,2],suministr:[1,2],sumunistr:2,superfici:0,superior:0,superpuest:0,supervivient:0,supon:[1,2],supong:1,suprim:[1,2],supuest:[0,1],supus:1,suscept:1,susodich:1,suspend:1,sustanci:0,sut:1,svg:[1,2],tach:0,tactil:0,tal:[0,1,2],tambien:[0,1,2],tampoc:1,tant:[0,1,2],tar:1,tard:[0,2],tare:1,target:1,taxat:0,tecl:0,tecnic:0,tecnolog:2,tedios:2,telefon:[0,1,2],templat:1,ten:[0,1,2],tendr:[1,2],teng:[0,1,2],terc:[1,2],tercer:[0,1],termin:2,textcontent:1,tiemp:[0,1,2],tien:[0,1,2],til:1,tilelay:1,tin:1,tip:[0,1,2],tipic:1,tipp:2,tiron:1,titl:1,tod:[0,1,2],tom:[0,1],tont:0,top:1,torn:1,total:1,tra:1,trabaj:0,traduc:1,transform:1,tras:2,trasl:[1,2],traslad:1,trat:[0,1],tratamient:1,traves:[0,1,2],tres:[1,2],trivial:0,troz:1,tru:[1,2],tur:2,turf:2,turn:[0,2],type:[1,2],ubi:2,ubic:[0,2],ultim:[0,1,2],unas:[0,1,2],unclusterzoom:2,uncorrect:[1,2],undefin:1,unfilt:[1,2],unfilter:[1,2],unic:[0,1,2],unpkg:[1,2],updat:1,url:[0,1,2],usa:[1,2],usad:1,usam:1,usan:[0,1],usand:[0,1,2],usar:[0,1,2],usarl:2,usars:[1,2],use:1,usem:1,uso:[2,3,4],usuari:[0,1,2],util:[0,2],utilic:0,utiliz:[1,2],utils:1,vac:1,vacant:[0,1,2],vaci:[0,1],val:1,valor:[0,1,2],valu:1,van:1,vari:1,variabl:[1,2],variacion:[1,2],variant:3,vay:1,vea:1,veas:[0,1,2],vec:1,vem:1,ven:1,ventaj:1,ver:[0,1],veran:0,vers:0,version:[1,2],vertical:0,vespertin:2,vez:[0,1,2],viaj:[0,2],violace:0,virtual:2,visit:0,vist:[0,1],vistaz:0,visual:[0,1,2],volunt:1,volv:[0,1,2],vuejs:1,vuelv:1,web:2,weight:1,width:1,xhr:1,xml:1,xmlhttprequest:1,xxxxx:2,zoom:[0,1,2]},titles:["1. \u00bfQu\u00e9 es Lobat\u00f3n?","3.1. Creaci\u00f3n de mapas","3.2. Mapa de oferta y adjudicaciones","3. Documentaci\u00f3n de desarrollo","Lobat\u00f3n: mapa de centros educativos andaluces"],titleterms:{"Qu\u00e9":0,Estado:0,Otras:1,Por:1,acces:1,adjud:2,ajust:0,andaluc:4,api:1,aplic:1,arranqu:0,atribut:2,barr:1,basic:1,caracterist:2,carg:1,centr:[0,4],comprob:1,concept:1,correccion:[1,2],creacion:[1,2],dat:[1,2],definicion:1,desarroll:3,document:3,dond:4,educ:4,encaden:1,entidad:0,estil:1,event:[1,2],faq:0,filtr:[0,1,2],geograf:0,geojson:1,hac:1,icon:1,indic:[],ingredient:1,leaflet:1,lobaton:[0,4],map:[0,1,2,4],marc:1,markerclust:1,metod:2,objet:2,ofert:2,preliminar:1,previ:1,progres:1,requer:1,requisit:2,reversion:1,seleccion:0,tabl:[],uso:[0,1],util:1,variant:1}})

diff --git a/docs/html/01.intro/index.html b/docs/html/01.intro/index.html
@@ -237,7 +237,14 @@ automáticamente el panel lateral de información de centro:</p>
 <img alt="../_images/seleccionado.png" src="../_images/seleccionado.png" />
 <p>Si nos fijamos en los iconos de la barra, veremos que aparecerán habilitados ya
 todos. Los deshabilatos al principio eran aquellos con nula utilidad mientras no
-hubiera datos cargados.</p>
+hubiera datos cargados. No obstante, el icono que permite mostrar la información
+de centro, sólo está habilitado si hay un centro seleccionado; si se
+deselecciona pinchando otra vez sobre el propio centro seleccionado, el panel se
+cerrará y se volverá a deshabilitar ese icono.</p>
+<p>La información de centro presenta los datos del centro, sus plantillas, las
+enseñanzas relevantes para la especialidad seleccionada y las adjudicaciones a
+los puestos relacionados con la especialidad:</p>
+<img alt="../_images/seleccionado2.png" src="../_images/seleccionado2.png" />
 </div>
 <div class="section" id="estado-el-mapa">
 <span id="panel-informacion"></span><h2>2.3. Estado el mapa<a class="headerlink" href="#estado-el-mapa" title="Enlazar permanentemente con este título">¶</a></h2>
@@ -340,10 +347,12 @@ los datos, los filtros, las correcciones y presentará el mapa centrado en el
 mismo lugar y con el mismo nivel de <em>zoom</em>. Consecuentemente, la aplicación
 quedará inicialmente en el mismo estado con que se cerró.</dd>
 <dt>Ocultar datos filtrados</dt>
-<dd>Deshabilitada esta opción las enseñanzas y los adjudicaciones filtradas
-aparecen en la información detallada del centro tachadas y con indicación
-de cuál es la razón por la que se tacharon. Al habilitarla, tales enseñanzas
-y adjudicaciones, simplemente, desaparecen.</dd>
+<dd><p class="first">Deshabilitada esta opción, las <a class="reference internal" href="#panel-filtros"><span class="std std-ref">enseñanzas y adjudicaciones filtradas</span></a> aparecen en la información detallada del centro tachadas y
+con indicación de cuál es la razón por la que se tacharon.</p>
+<img alt="../_images/tachadas.png" src="../_images/tachadas.png" />
+<p>Al habilitarla, tales enseñanzas y adjudicaciones, simplemente, desaparecen:</p>
+<img alt="../_images/ocultas.png" class="last" src="../_images/ocultas.png" />
+</dd>
 <dt>Mostrar (en gris) centros filtrados</dt>
 <dd>Al quedar filtrado un centro, este desaparece del mapa. Si se habilita esta
 opción, en vez de desaparecer aparecerá dibujado en gris. Se comportan
@@ -494,10 +503,10 @@ en:</p>
 </li>
 <li><p class="first"><strong>¿Por qué está deshabilitado el filtro de vacantes telefónicas?</strong></p>
 <p>Muy probablemente porque en <a class="reference internal" href="#panel-ajustes"><span class="std std-ref">ajustes</span></a> no se ha marcado
-«<em>Incluir vacantes telefónicas*</em>.»</p>
+«<em>Incluir vacantes telefónicas</em>».</p>
 </li>
-<li><p class="first"><strong>¿Cómo hago para saber las vacantes de septiembre que no se ofertaron en el
-procedimiento de verano?</strong></p>
+<li><p class="first"><strong>¿Cómo hago para conocer las vacantes de septiembre que no se ofertaron en
+el procedimiento de verano?</strong></p>
 <ol class="loweralpha simple">
 <li>En <a class="reference internal" href="#panel-ajustes"><span class="std std-ref">ajustes</span></a> cerciórese de que están marcadas las
 opciones «<em>Filtrar centros sin adjudicaciones</em>» y «<em>Incluir vacantes

diff --git a/docs/html/02.dev/01.map.html b/docs/html/02.dev/01.map.html
@@ -228,7 +228,7 @@ a los datos.</dd>
 <dd>Sistema que permite fijar criterios para hacer desaparecer (o volver a
 mostrar) marcas.</dd>
 </dl>
-<p class="rubric">¿Cuándo puede resultarme útil leafext.js?</p>
+<p class="rubric" id="dev-map-util">¿Cuándo puede resultarme útil leafext.js?</p>
 <p>La librería se torna útil cuando, dado un conjunto de datos a representar sobre
 un mapa:</p>
 <ol class="arabic simple">

diff --git a/src/docs/source/01.intro/index.rst b/src/docs/source/01.intro/index.rst
@@ -81,7 +81,16 @@ automáticamente el panel lateral de información de centro:
 
 Si nos fijamos en los iconos de la barra, veremos que aparecerán habilitados ya
 todos. Los deshabilatos al principio eran aquellos con nula utilidad mientras no
-hubiera datos cargados.
+hubiera datos cargados. No obstante, el icono que permite mostrar la información
+de centro, sólo está habilitado si hay un centro seleccionado; si se
+deselecciona pinchando otra vez sobre el propio centro seleccionado, el panel se
+cerrará y se volverá a deshabilitar ese icono.
+
+La información de centro presenta los datos del centro, sus plantillas, las
+enseñanzas relevantes para la especialidad seleccionada y las adjudicaciones a
+los puestos relacionados con la especialidad:
+
+.. image:: files/seleccionado2.png
 
 .. _panel-informacion:
 
@@ -207,10 +216,15 @@ Recordar el estado del mapa
    quedará inicialmente en el mismo estado con que se cerró.
 
 Ocultar datos filtrados
-   Deshabilitada esta opción las enseñanzas y los adjudicaciones filtradas
-   aparecen en la información detallada del centro tachadas y con indicación
-   de cuál es la razón por la que se tacharon. Al habilitarla, tales enseñanzas
-   y adjudicaciones, simplemente, desaparecen.
+   Deshabilitada esta opción, las :ref:`enseñanzas y adjudicaciones filtradas
+   <panel-filtros>` aparecen en la información detallada del centro tachadas y
+   con indicación de cuál es la razón por la que se tacharon.
+  
+   .. image:: files/tachadas.png 
+  
+   Al habilitarla, tales enseñanzas y adjudicaciones, simplemente, desaparecen:
+
+   .. image:: files/ocultas.png
 
 Mostrar (en gris) centros filtrados
    Al quedar filtrado un centro, este desaparece del mapa. Si se habilita esta
@@ -368,10 +382,10 @@ Enseñanzas
 #. **¿Por qué está deshabilitado el filtro de vacantes telefónicas?**
 
    Muy probablemente porque en :ref:`ajustes <panel-ajustes>` no se ha marcado
-   "*Incluir vacantes telefónicas**."
+   "*Incluir vacantes telefónicas*".
 
-#. **¿Cómo hago para saber las vacantes de septiembre que no se ofertaron en el
-   procedimiento de verano?**
+#. **¿Cómo hago para conocer las vacantes de septiembre que no se ofertaron en
+   el procedimiento de verano?**
 
    a. En :ref:`ajustes <panel-ajustes>` cerciórese de que están marcadas las
       opciones "*Filtrar centros sin adjudicaciones*" y "*Incluir vacantes
